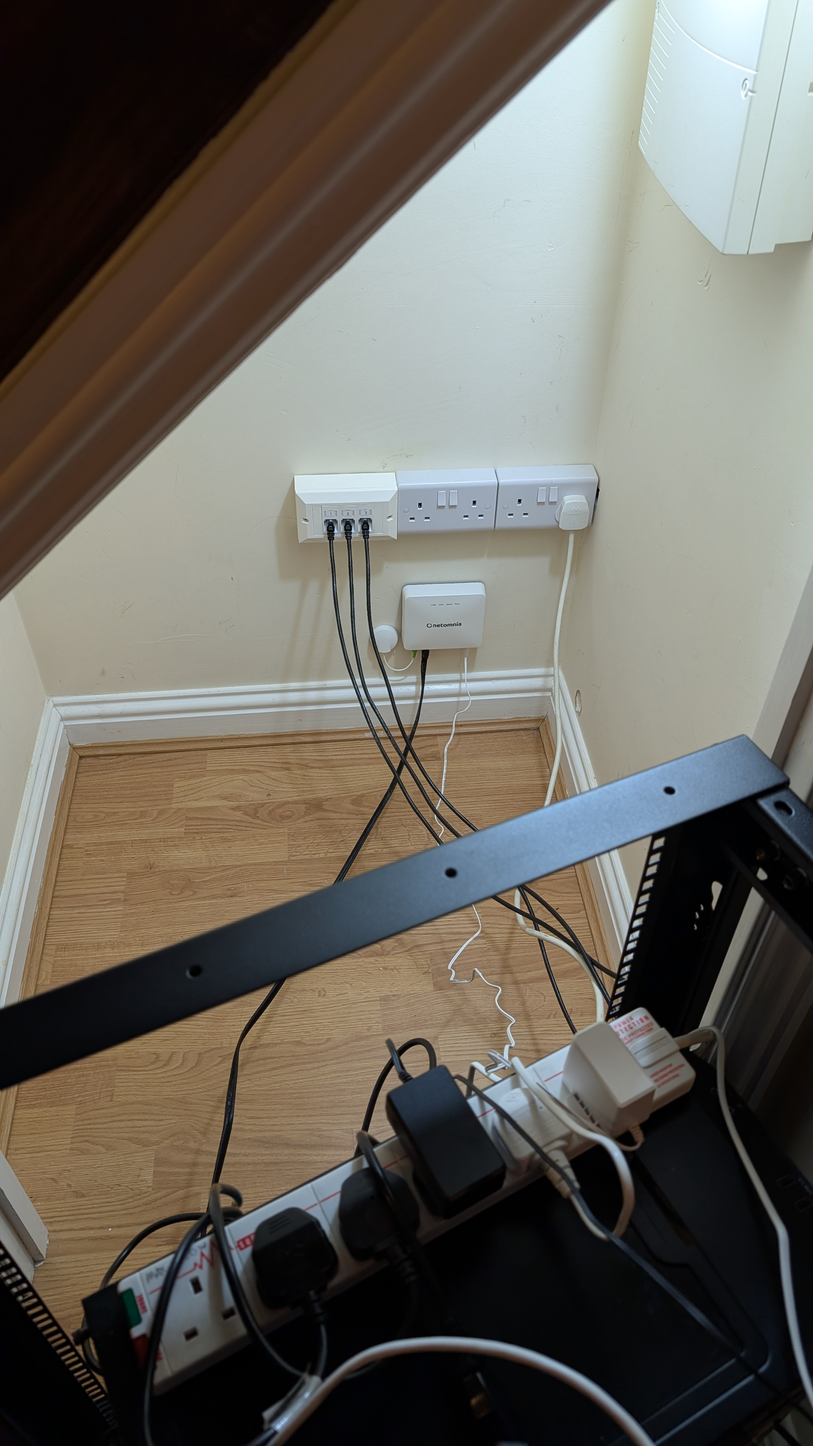
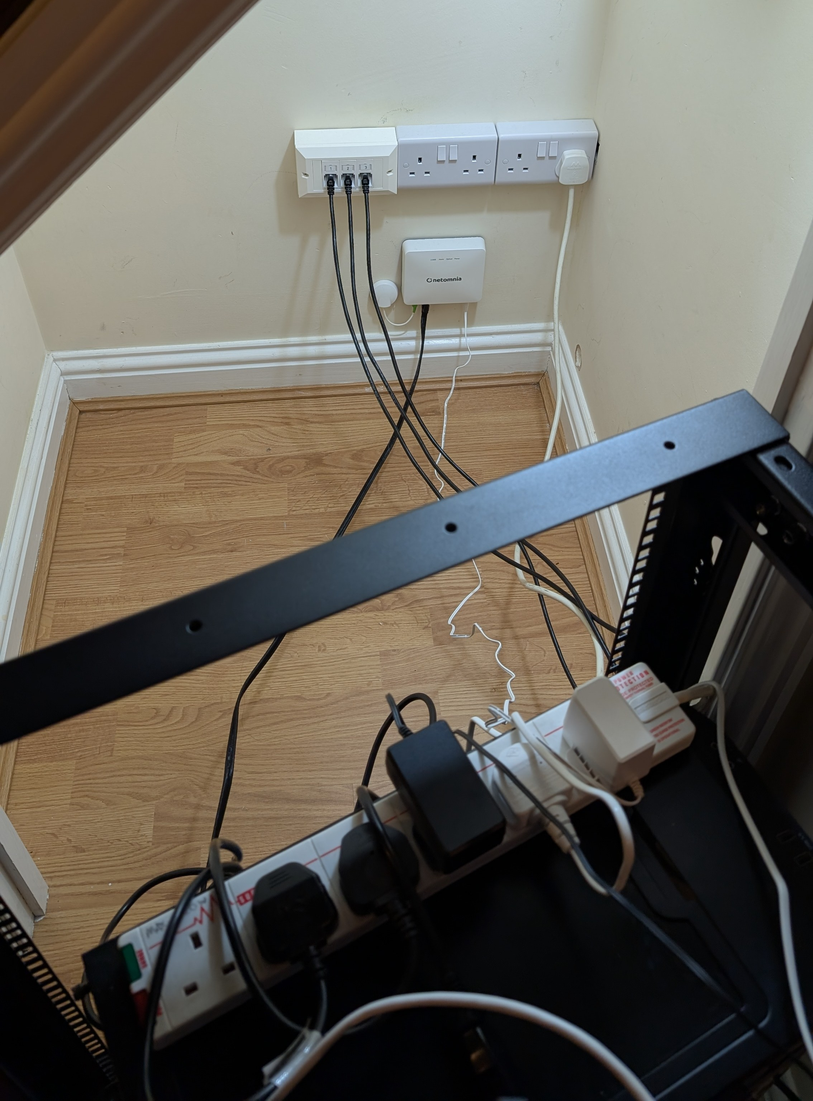
home network updates

diff --git a/_projects/home_network.md b/_projects/home_network.md
@@ -8,24 +8,32 @@ importance: 3
 category: fun
 ---
 
-So I've recently done an adult thing and I've bought my first house. Go me. I decided that I want a well-connected household with gigabit internet. 
-
-Luckily, I moved to a place which has it already rolled out. All it took was me selcting a provider that buult out Fibre to the Home (FTTH), and I would be off to the races. After selecting my provider I was yearning for an update to my home network. 
+So I've recently done an adult thing and I've bought my first house. Go me. I decided that I want a well-connected household with gigabit internet. I also decided that I wanted a complete revamp of my home network, with all the bells and whistles of a homelab.
 
 Before the move, my home netowrk was very simple setup of my ISP-provided router in bridging mode, connected to a pfSense box. My local internal network consisted of a Synology NAS device from around 2011, my Wifi AP, and my gaming PC. The NAS had a single-core 1.2 GHz processor, 256 MB of RAM, two internal 3.5 inch bays, each with maximum capacity of 3TB for a total of 6TB of storage. I chose to run it in RAID 1 (Disk mirroring). 
 
-When building out my network I decided on a few key philosophies that I wanted to stick to during the build and deployment:
+Luckily, I moved to a place which has it already rolled out. All it took was me selcting a provider that buult out Fibre to the Home (FTTH), and I would be off to the races. After selecting my provider I was yearning for an update to my home network. 
+
+Then came another interesting debacle: Where shoud I put all the hardware? There were a few candidates, ranging from all levels of difficulty - but I ended up selecting the cupboard underneath the stairs. There were no power sockets here, so I ended up hiring a qualified electrican to add some sockets there. Once done, I ensured that the ONT installation for my Fibre line terminated in that same place. I also paid a professional company to add CAT6 ethernet runs to all the bedrooms and the living room.
+
+When building out my network I decided on a few key philosophies that I wanted to stick to during design, build and deployment:
 
 1. The network setup, topology and ongoing maintenence are to be as stressfree and simple as possible.
-2. The hardware should be as quiet as possible and needs to fit inside te cupboard underneath the stairs for maximum stealth.
+2. The hardware should be as quiet as possible and needs to fit inside the cupboard underneath the stairs for maximum stealth.
+3. Power consumption should be kept to a minimum.
+4. If I need to move the hardware to a different location, or remove and disconnect everything for whatever reason: I can do so with very little effort. 
+5. The hardware selected needs to become more modular. I've grown tired of a mass of boxes and wires.
+
+During this home network revamp - I wanted to get some quick wins/improvements:
+1. A redesign of my storage solution was needed with parity, error checking and RAID built-in. This needs to be a permanent change, and certain file storage connection protocols needs to be supported out-of-the-box, such as SMB and NFS. This will become my primary backup provider. 
+2. I wanted to onboard a device that can allow me to spin up and spin down VMs and Docker containers quickly and easily. This can give me some labbing potential, should I need to use it.
 
 
-I also wanted to 
-3. A redesign of my storage solution was needed with full parity built in. This needs to for
+Regarding parts selection, I found that I had several PC parts lying around and I decided to repurpose these, for use in my network. I selected a gateway device that could run pfSense, as I am familiar with the software and I am confident enough to administer it well and securely. 
 
+With this in mind, I started by designing everything else. I found that I can hit philosophy point #1 and both my quick wins in network redesign, by having a dedicated machine running an OS that can serve as my storage server, but has VM and docker capabilties. I researched a lot of OSes and ways of doing this cleanly until I came across [Unraid](https://unraid.net/). It seemed to hit every requirement I needed, and there was only a one off licensing fee to use the software for life. There is ample doucmentaiton and online resources for it, and a massive online community using the tool. Unfortunately it is closed source and not FOSS. I decided to select this for my network.
 
-
-Network diagram
+I drew up a quick network diagram, to see how it would all fit together and this helped me design the interfaces and networks I intended to use for everything. I find that drawing everything out helped me connect things correctly first time with little to no troubleshooting.
 
 <div class="row">
     <div class="col-sm mt-3 mt-md-0">
@@ -36,7 +44,9 @@ Network diagram
     A simplfied network diagram.
 </div>
 
+Then I took the plunge. The point of no return. The moment that all homelabbers remmeber dearly. I decided to buy a server rack. 
 
+I decided to get a [Startech 15U Open Frame Server Rack](https://www.startech.com/en-gb/server-management/4postrack15u). It included some casters (wheels) which I really appreciated. It was a great purchase and I think that it will last me for a very long time - and I have ample space to build out my estate should I choose to. Given that I decided to repurpose my desktop PC components and PC case, I kitted it out with a high-strength support base for the lowermost rack slot so I can my PC case on the bottom of the rack. Have a look at later pictures if you need to see what I mean. If I choose to get a UPS with heavy batteries, this shelf should be more than enough to handle that. This selection hits my philosophy points #2, #4 and #5 quite nicely. 
 
 <div class="row justify-content-sm-center">
     <div class="col-sm-8 mt-3 mt-md-0">
@@ -50,6 +60,7 @@ Network diagram
     <b>Left:</b> A close up of the bits I have in my rack at the moment. <b>Right:</b> How the ONT and ethernet runs are set up.
 </div>
 
+I purchased an old PoE Netgear switch from Ebay that's long out of service. I stuck that in, and it helped me wire up In the future I will use it to add some security cameras about the house.
 
 <div class="row">
     <div class="col-sm mt-3 mt-md-0">
@@ -59,6 +70,13 @@ Network diagram
 <div class="caption">
     This is her in position. Isn't she a beauty?
 </div>
+
+
+In the future, I want to:
+
+1. Get a server mounting kit for ATX PCs so that instead of a large PC case sitting at the bottom of the rack, I can have the computer bits slot into the rack instead. 
+2. I want to see if there are any FOSS alternatives to Unraid that just works well out of the box, and is as feature-rich - but I am not there yet. 
+3. Add a home security network, and use a running VM as a NVR server to control all the cameras. It should be straight forward to wire via. PoE connections.
 
 
 
